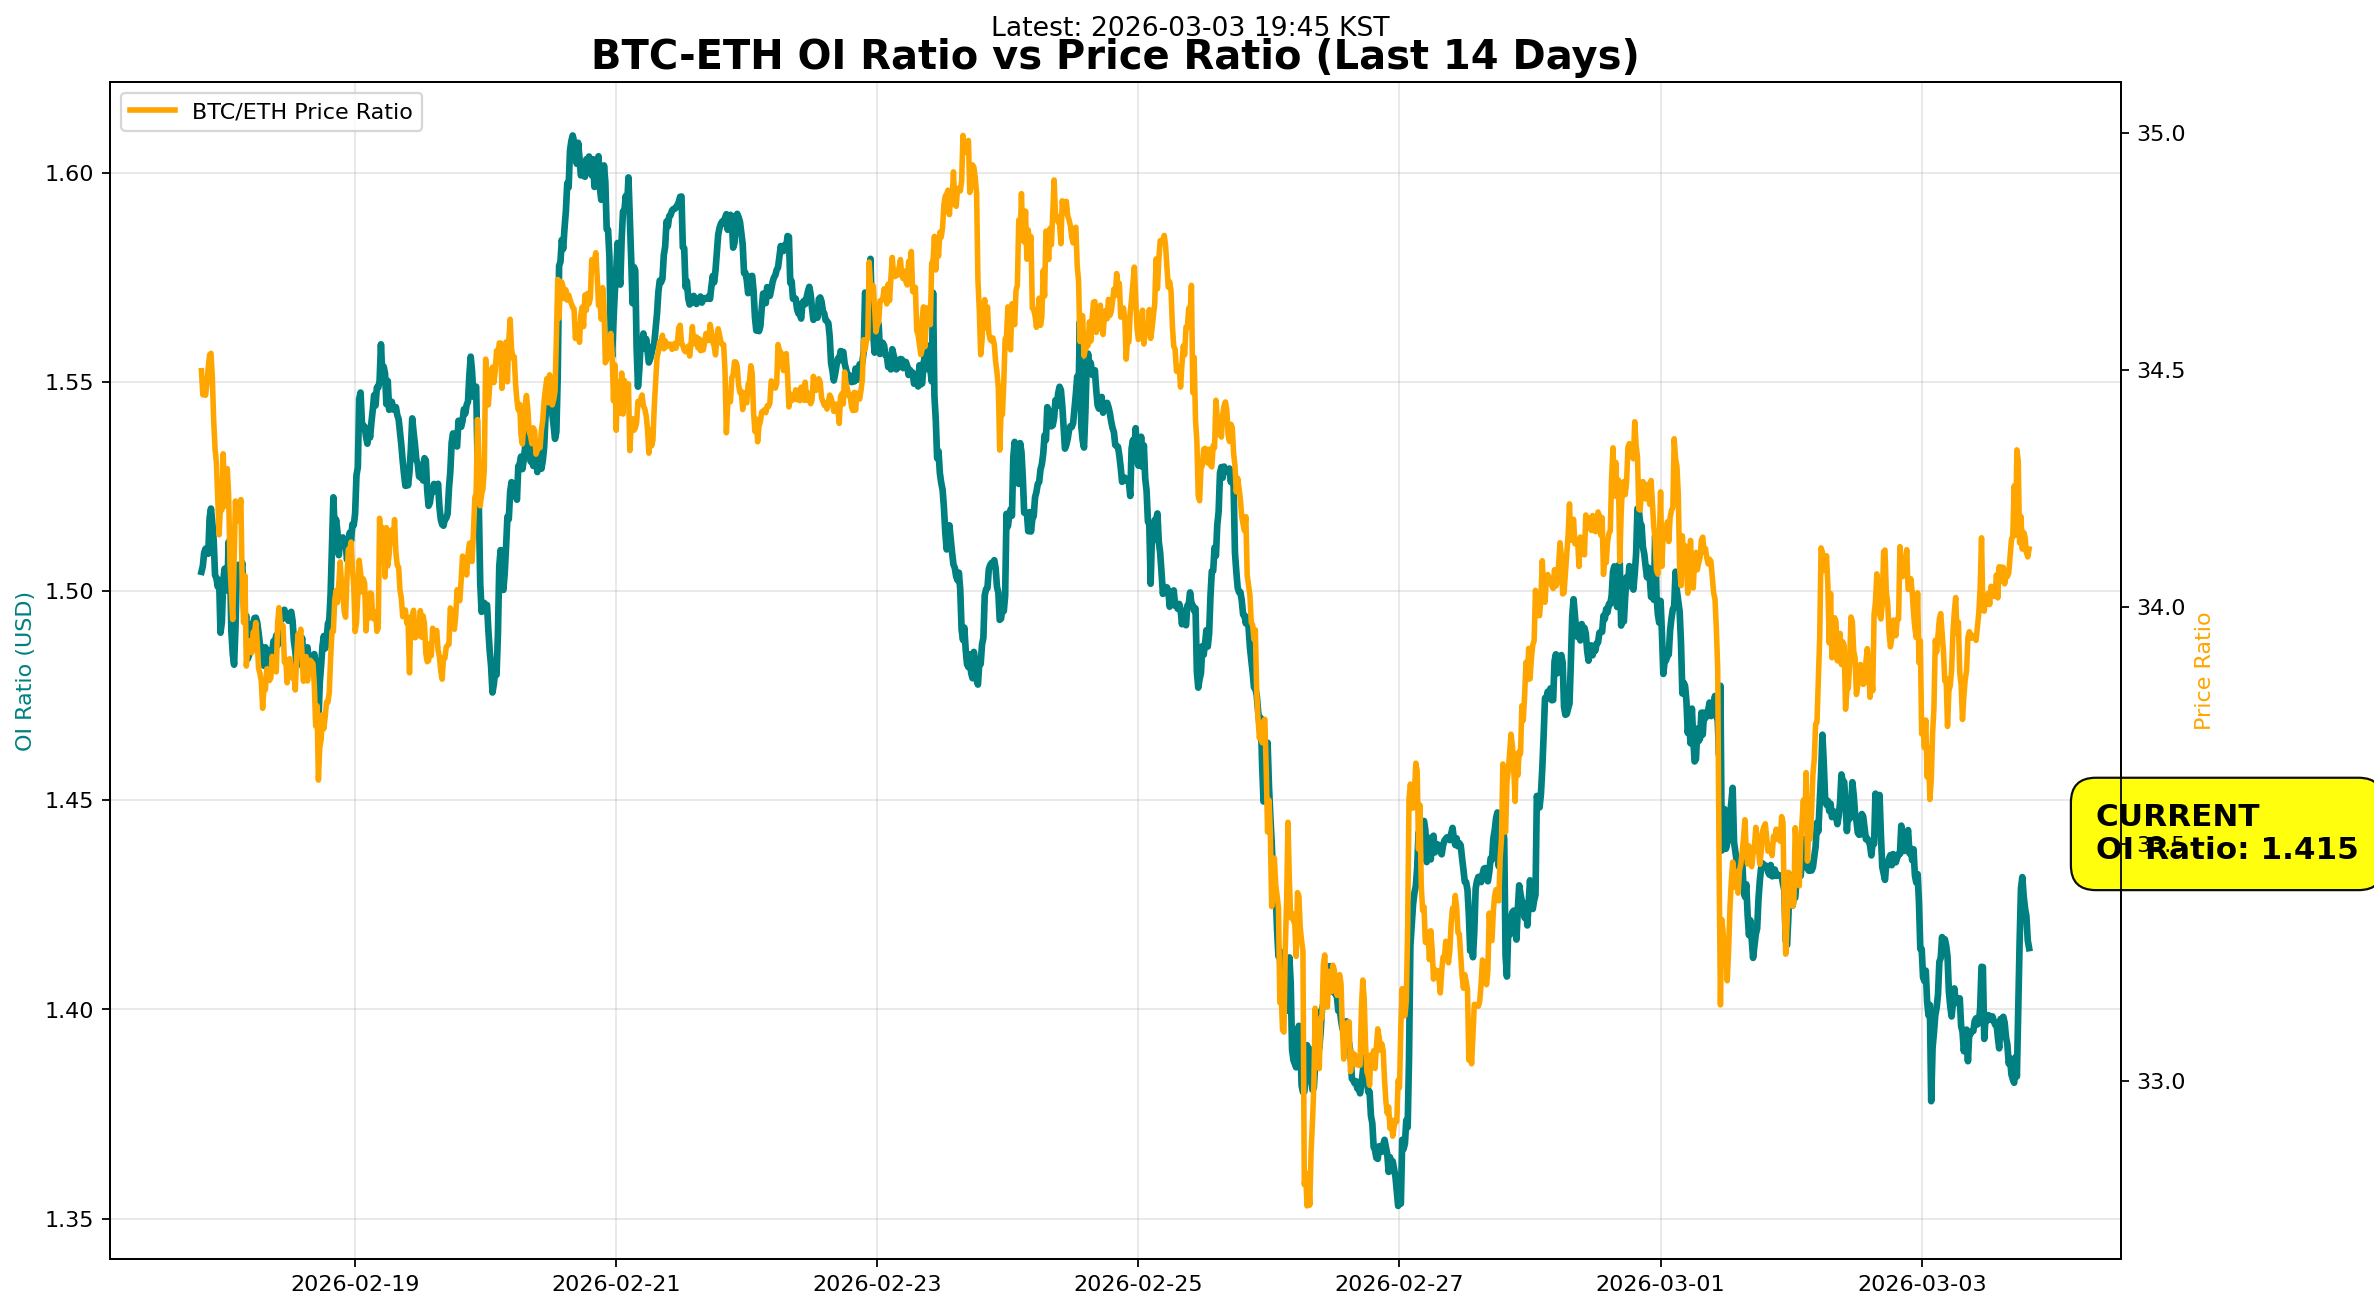
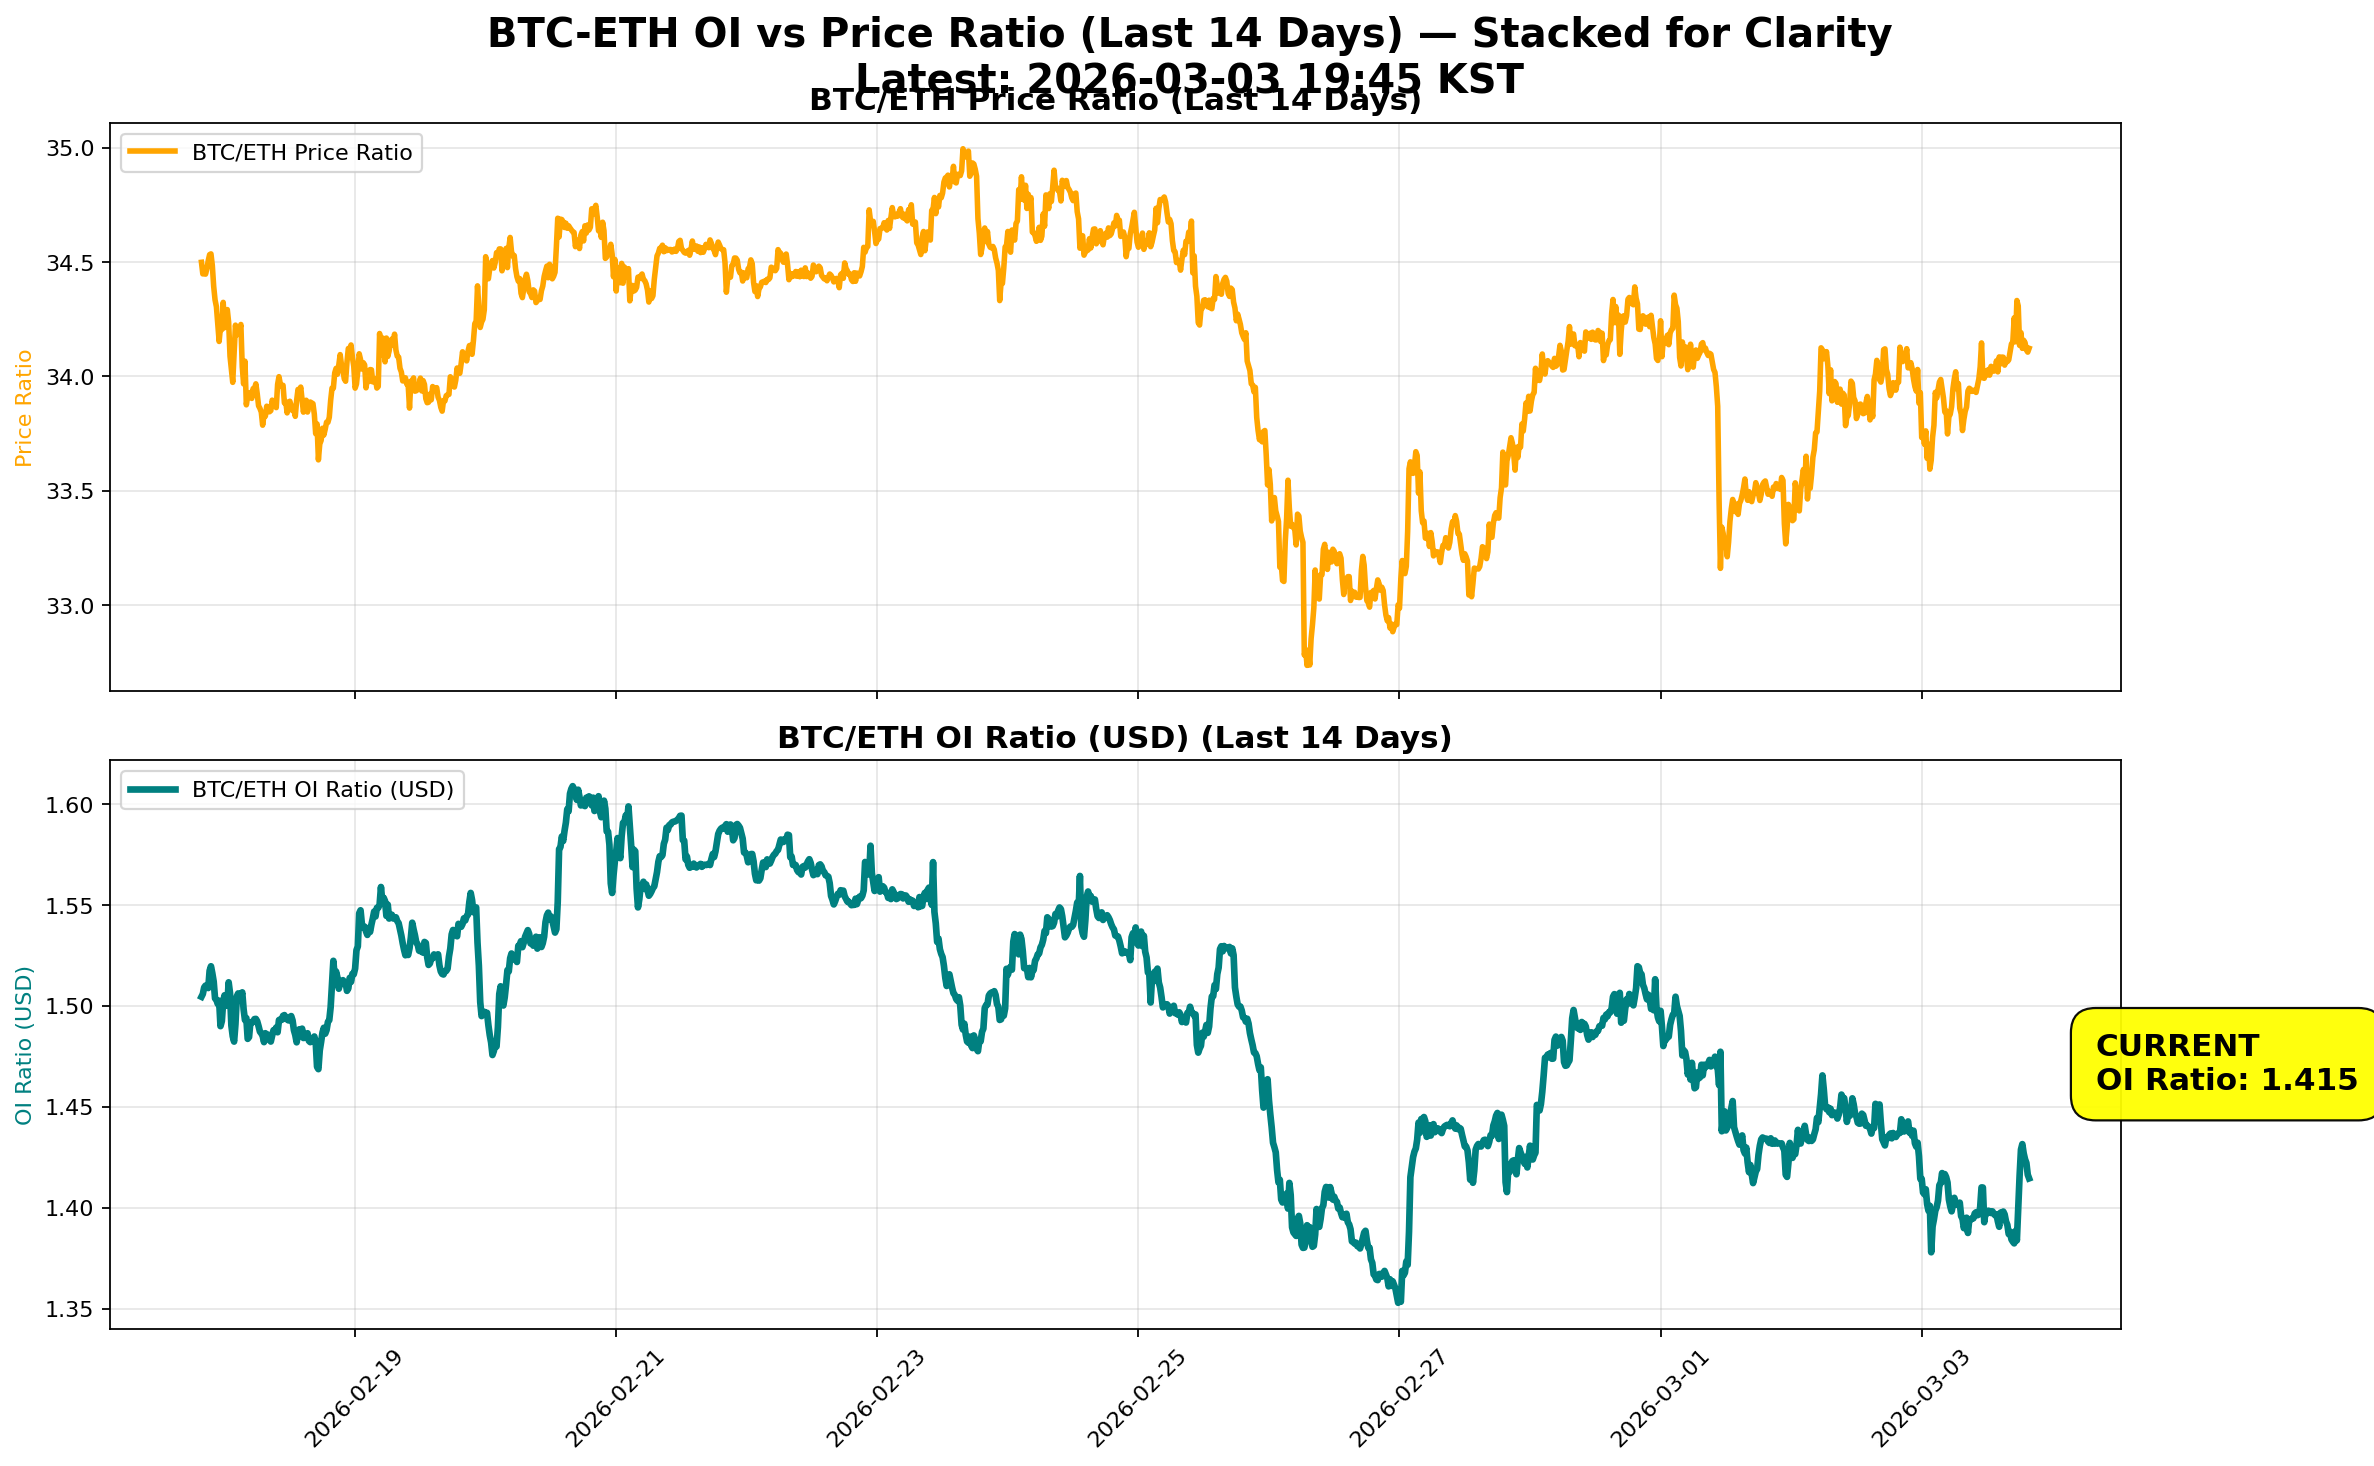
separate lines

diff --git a/src/open_interest/analyze_oi_standalone.py b/src/open_interest/analyze_oi_standalone.py
@@ -35,35 +35,43 @@ class BTCETHOIAnalyzerStandalone:
         plt.close()
 
     def _fourteen_day_dual_chart(self):
-        print("\nGenerating 14-day standalone chart (KST)...")
+        print("\nGenerating 14-day stacked chart (KST)...")
         end_time = self.recent.index.max()
         start_time = end_time - pd.Timedelta(days=14)
         plot_df = self.recent[(self.recent.index >= start_time) & (self.recent.index <= end_time)].copy()
         plot_df.index = plot_df.index.tz_localize('UTC').tz_convert('Asia/Seoul')
 
-        fig, ax1 = plt.subplots(figsize=(15, 8.5))
-        ax1.plot(plot_df.index, plot_df['btc_eth_oi_ratio'], color='teal', lw=3, label='BTC/ETH OI Ratio (USD)')
-        ax1.set_ylabel('OI Ratio (USD)', color='teal')
+        # === NEW: Two separate subplots (Price on top, OI on bottom) ===
+        fig, (ax1, ax2) = plt.subplots(2, 1, figsize=(15, 9.5), sharex=True, gridspec_kw={'height_ratios': [1, 1]})
 
-        ax2 = ax1.twinx()
-        ax2.plot(plot_df.index, plot_df['btc_eth_price_ratio'], color='orange', lw=2.5, label='BTC/ETH Price Ratio')
-        ax2.set_ylabel('Price Ratio', color='orange')
+        # Top chart: Price Ratio (orange)
+        ax1.plot(plot_df.index, plot_df['btc_eth_price_ratio'], color='orange', lw=2.5, label='BTC/ETH Price Ratio')
+        ax1.set_ylabel('Price Ratio', color='orange')
+        ax1.set_title('BTC/ETH Price Ratio (Last 14 Days)', fontsize=14, fontweight='bold')
+        ax1.grid(True, alpha=0.3)
+        ax1.legend(loc='upper left')
 
+        # Bottom chart: OI Ratio (teal)
+        ax2.plot(plot_df.index, plot_df['btc_eth_oi_ratio'], color='teal', lw=3, label='BTC/ETH OI Ratio (USD)')
+        ax2.set_ylabel('OI Ratio (USD)', color='teal')
+        ax2.set_title('BTC/ETH OI Ratio (USD) (Last 14 Days)', fontsize=14, fontweight='bold')
+        ax2.grid(True, alpha=0.3)
+        ax2.legend(loc='upper left')
+
+        # CURRENT annotation on the OI chart
         current_oi = plot_df['btc_eth_oi_ratio'].iloc[-1]
-        ax1.annotate(f'CURRENT\nOI Ratio: {current_oi:.3f}', 
+        ax2.annotate(f'CURRENT\nOI Ratio: {current_oi:.3f}',
                      xy=(plot_df.index[-1], current_oi),
                      xytext=(30, 40), textcoords='offset points', fontsize=14, fontweight='bold',
                      bbox=dict(boxstyle="round,pad=0.8", facecolor='yellow', alpha=0.95))
 
-        ax1.set_title('BTC-ETH OI Ratio vs Price Ratio (Last 14 Days)', fontsize=18, fontweight='bold')
-        ax1.grid(True, alpha=0.3)
-        fig.suptitle(f'Latest: {plot_df.index[-1].strftime("%Y-%m-%d %H:%M KST")}', y=0.96)
-        plt.legend(loc='upper left')
+        fig.suptitle(f'BTC-ETH OI vs Price Ratio (Last 14 Days) — Stacked for Clarity\nLatest: {plot_df.index[-1].strftime("%Y-%m-%d %H:%M KST")}', 
+                     y=0.96, fontsize=18, fontweight='bold')
         plt.xticks(rotation=45)
         plt.tight_layout()
         plt.savefig('btc_eth_oi_14d_standalone.png', dpi=160, bbox_inches='tight', facecolor='white')
         plt.close()
-        print("   • btc_eth_oi_14d_standalone.png  (pure OI + price ratio)")
+        print("   • btc_eth_oi_14d_standalone.png  (stacked: Price on top • OI on bottom)")
 
     def _oi_spike_detector_chart(self):
         print("\nGenerating OI Spike/Drop Detector chart (last 60 days, KST)...")
@@ -153,7 +161,7 @@ class BTCETHOIAnalyzerStandalone:
         self._oi_spike_detector_chart()
         print("\n✅ Standalone OI Analysis complete! Charts saved:")
         print("   • btc_eth_large_oi_vs_price.png")
-        print("   • btc_eth_oi_14d_standalone.png")
+        print("   • btc_eth_oi_14d_standalone.png   ← stacked (Price top • OI bottom)")
         print("   • btc_eth_oi_spike_detector.png   ← TODAY always highlighted with exact time!")
 
 if __name__ == "__main__":
